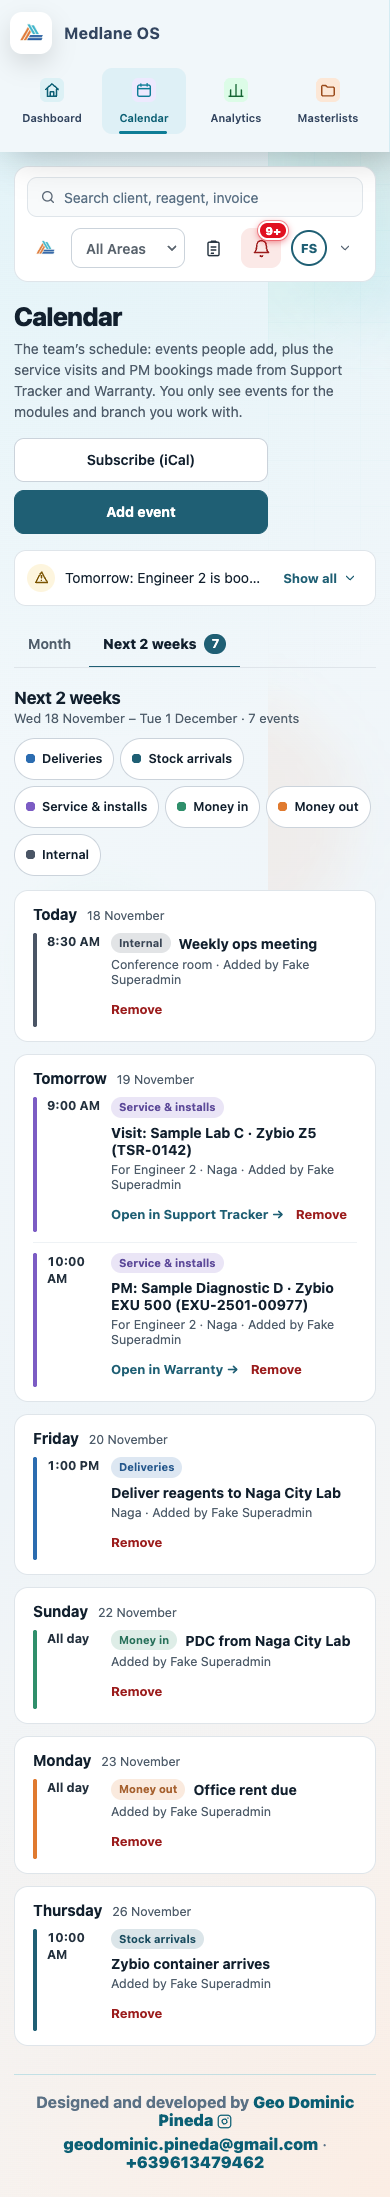
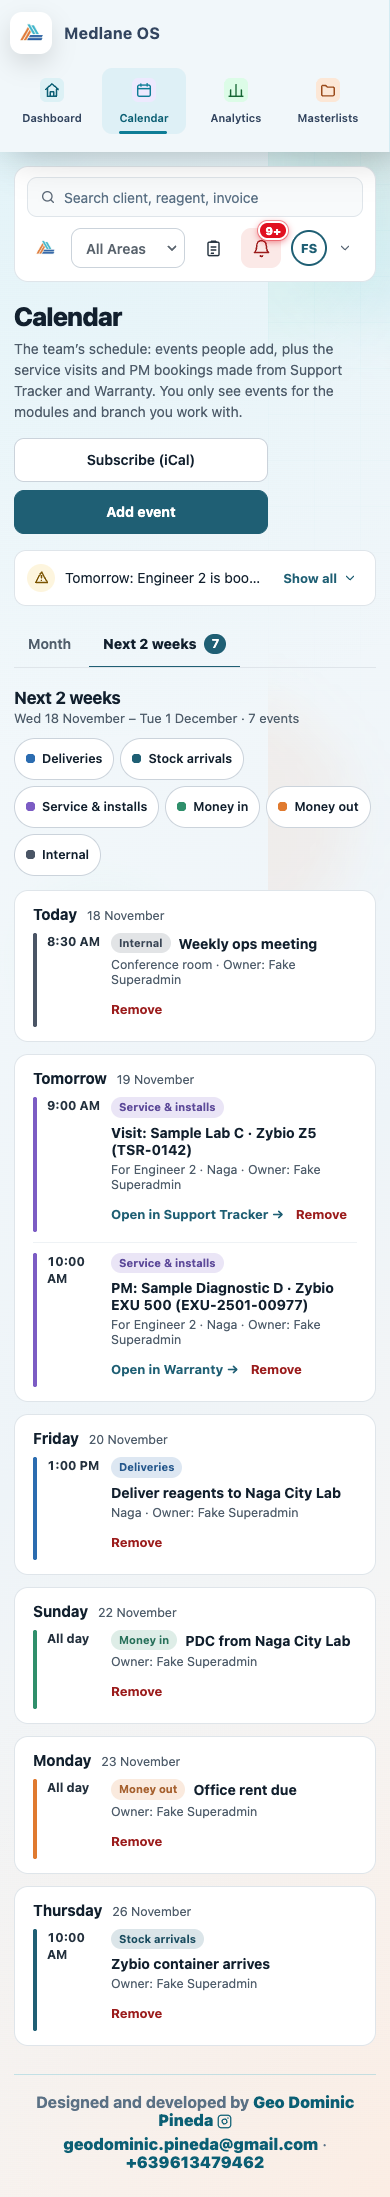
Calendar: the owner is always whoever made the event
- Add event shows you as the owner (read-only) instead of an Owner picker.
- The server stamps a new event's owner (email, name, role) from the signed-in profile, even for
  Superadmin/CEO, and an event keeps its owner for good when edited or removed.
- Events show "Owner: name" on the page, in the remove confirmation and in the iCal feed.
  Visits and PMs still show who they're for (the engineer).

diff --git a/public/scripts/calendar-page.js b/public/scripts/calendar-page.js
@@ -67,7 +67,7 @@ function calendarEventHtml(event) {
   const type = CalendarRules.typeInfo(CalendarRules.typeOf(event));
   const e = /** @type {any} */ (event);
   const when = e.allDay || !event.time ? "All day" : calendarTimeLabel(event.time);
-  const detail = [e.note, e.assigneeName ? `For ${e.assigneeName}` : "", e.branch ? supportBranchLabel(String(e.branch)) : "", event.createdBy ? `Added by ${event.createdBy}` : ""].filter(Boolean).map((s) => escapeHtml(String(s))).join(" · ");
+  const detail = [e.note, e.assigneeName ? `For ${e.assigneeName}` : "", e.branch ? supportBranchLabel(String(e.branch)) : "", event.createdBy ? `Owner: ${event.createdBy}` : ""].filter(Boolean).map((s) => escapeHtml(String(s))).join(" · ");
   const remove = canChangeCalendarEvent(event) ? `<button type="button" class="ui-link cal-remove" data-cal-remove="${escapeHtml(event.id)}" aria-label="Remove ${escapeHtml(event.title)}">Remove</button>` : "";
   return `<li class="cal-event">${calendarBar(type.color)}<div class="cal-event-time">${escapeHtml(when)}</div><div class="cal-event-body">
     <div class="cal-event-head"><span class="cal-type" style="--cal-color:${type.color}">${escapeHtml(type.label)}</span><strong>${escapeHtml(event.title)}</strong></div>
@@ -153,17 +153,10 @@ WORKFLOW_RULES.calendar = [
 ];
 
 // ----- adding and removing ------------------------------------------------------------------------------
-/** People an event can be for: the users list if this person can see it, else just themselves. */
-function calendarOwners() {
-  const me = { email: String(currentUser?.email || "").toLowerCase(), name: String(currentUser?.name || currentUser?.email || "Me") };
-  const users = (/** @type {any[]} */ (data.users || [])).filter((u) => u?.email && !u.disabled && u.status !== "Disabled").map((u) => ({ email: String(u.email).toLowerCase(), name: String(u.name || u.full_name || u.email) }));
-  return [me, ...users.filter((u) => u.email !== me.email).sort((a, b) => a.name.localeCompare(b.name))];
-}
 /** @param {string} [date] */
 async function calendarAddEvent(date = "") {
   if (!calendarCanAdd()) return toast("Editing is disabled for the Calendar in User Settings.");
   const day = date && date >= fmtDate(today) ? date : fmtDate(today);
-  const owners = calendarOwners();
   const values = await supportDialog({
     kicker: "Calendar", title: "Add an event", confirm: "Add event",
     body: `<div class="wty-form">
@@ -171,24 +164,23 @@ async function calendarAddEvent(date = "") {
       <div class="field"><label for="sup-date">Date</label><input id="sup-date" name="date" type="date" required min="${fmtDate(today)}" value="${day}" /></div>
       <div class="field"><label for="sup-time">Time</label><input id="sup-time" name="time" type="time" value="09:00" /></div>
       ${supportSelectHtml("type", "Type", CalendarRules.TYPES.map((t) => ({ value: t.key, label: t.label })), "internal")}
-      ${supportSelectHtml("owner", "Owner", owners.map((o) => ({ value: o.email, label: o.name })), owners[0].email)}
+      <div class="field"><label for="sup-owner">Owner</label><input id="sup-owner" value="${escapeHtml(String(currentUser?.name || currentUser?.email || "You"))}" readonly aria-describedby="sup-owner-help" /></div>
       ${supportSelectHtml("branch", "Branch", [{ value: "", label: "Everyone (all branches)" }, ...platformBranches().map((b) => ({ value: b, label: supportBranchLabel(b) }))], "")}
       <label class="ios-check-row cal-allday"><input type="checkbox" name="allDay" value="yes" /><span></span><strong>All day</strong></label>
       <div class="field full"><label for="sup-note">Note</label><textarea id="sup-note" name="note" maxlength="2000" placeholder="Where, what to bring, who else is going…"></textarea></div>
-    </div><p class="field-help">A branch event is only shown to people at that branch. Money and delivery types are only shown to people with those modules.</p>`,
+    </div><p class="field-help" id="sup-owner-help">You'll be the owner: only you (or Superadmin/CEO) can remove it. A branch event is only shown to people at that branch. Money and delivery types are only shown to people with those modules.</p>`,
   });
   if (!values) return;
   const title = String(values.title || "").trim();
   const allDay = values.allDay === "yes";
   if (!title || !values.date || (!allDay && !values.time)) return toast("Add a name, a date and a time (or tick All day).");
   if (values.date < fmtDate(today)) return toast("Events can only be added for today or a future date.");
-  const owner = owners.find((o) => o.email === values.owner) || owners[0];
   /** @type {CalendarEvent & Record<string, any>} */
   const entry = {
     id: `EVT-${Date.now().toString(36)}-${Math.random().toString(36).slice(2, 6)}`, title, date: values.date, time: allDay ? "" : values.time,
     createdBy: currentUser?.name || currentUser?.email || "User", createdByUser: String(currentUser?.email || "").toLowerCase(), createdByRole: currentUser?.role || "", createdAt: new Date().toISOString(),
     type: CalendarRules.TYPE_KEYS.includes(values.type) ? values.type : "internal", ...(allDay ? { allDay: true } : {}), ...(values.branch ? { branch: values.branch } : {}),
-    ...(String(values.note || "").trim() ? { note: String(values.note).trim() } : {}), assigneeEmail: owner.email, assigneeName: owner.name,
+    ...(String(values.note || "").trim() ? { note: String(values.note).trim() } : {}),
   };
   data.calendarEvents.push(entry);
   const saveResult = await persistRecords({ calendarEvents: [entry] });
@@ -205,7 +197,7 @@ async function calendarRemoveEvent(id) {
   const entry = (data.calendarEvents || []).find((e) => e.id === id);
   if (!entry || entry.removed) return;
   if (!canChangeCalendarEvent(entry)) return toast("Only the person who added this event can remove it.");
-  const ok = await confirmDetailsModal({ eyebrow: "Calendar", title: `Remove "${entry.title}"?`, fields: [["Date", entry.date], ["Time", /** @type {any} */ (entry).allDay || !entry.time ? "All day" : calendarTimeLabel(entry.time)], ["Added by", entry.createdBy || "-"]], confirmLabel: "Remove event", danger: true });
+  const ok = await confirmDetailsModal({ eyebrow: "Calendar", title: `Remove "${entry.title}"?`, fields: [["Date", entry.date], ["Time", /** @type {any} */ (entry).allDay || !entry.time ? "All day" : calendarTimeLabel(entry.time)], ["Owner", entry.createdBy || "-"]], confirmLabel: "Remove event", danger: true });
   if (!ok) return;
   entry.removed = true;
   entry.removedBy = currentUser?.name || currentUser?.email || "User";

diff --git a/src/worker.js b/src/worker.js
@@ -2786,13 +2786,15 @@ async function assertCalendarEventChangesAllowed(env, stateKey, profile, rows) {
       if ((!prev || String(prev.date || "") !== String(next.date || "")) && String(next.date) < shortDate()) throw new Error("Calendar event can only be scheduled for today or a future date");
     }
     if (!prev) {
-      if (owner !== me && !isManagement) throw new Error("You can only add calendar events as yourself");
-      // The department color comes from the creator's real role, never from the client.
-      if (owner === me) next.createdByRole = profile?.role || "";
+      if (owner && owner !== me && !isManagement) throw new Error("You can only add calendar events as yourself");
+      // The owner is always whoever made it: stamped from the signed-in profile, never the browser.
+      next.createdByUser = me;
+      next.createdBy = String(profile?.name || profile?.email || next.createdBy || "");
+      next.createdByRole = profile?.role || "";
       continue;
     }
-    // An event keeps the department it was created under.
-    if (prev.createdByRole !== undefined) next.createdByRole = prev.createdByRole;
+    // An event keeps its owner for good, whoever edits or removes it later.
+    for (const field of ["createdByUser", "createdBy", "createdByRole"]) if (prev[field] !== undefined) next[field] = prev[field];
     const keys = ["title", "date", "time", "removed", "createdByUser"];
     const changed = keys.some((key) => String(prev[key] ?? "") !== String(next[key] ?? ""));
     if (changed && owner !== me && !isManagement) throw new Error("Only the person who added this calendar event can change or remove it");

diff --git a/public/scripts/calendar-rules.js b/public/scripts/calendar-rules.js
@@ -159,7 +159,7 @@ const CalendarRules = (() => {
         lines.push(`DTSTART:${start}`, `DTEND:${new Date(Date.parse(`${e.date}T${e.time}:00+08:00`) + 3600e3).toISOString().replace(/[-:]/g, "").replace(/\.\d{3}/, "")}`);
       }
       lines.push(`SUMMARY:${icsText(e.title)}`, `CATEGORIES:${icsText(type.label)}`);
-      const description = [e.note, e.assigneeName ? `For ${e.assigneeName}` : "", e.createdBy ? `Added by ${e.createdBy}` : ""].filter(Boolean).join("\n");
+      const description = [e.note, e.assigneeName ? `For ${e.assigneeName}` : "", e.createdBy ? `Owner: ${e.createdBy}` : ""].filter(Boolean).join("\n");
       if (description) lines.push(`DESCRIPTION:${icsText(description)}`);
       if (e.branch) lines.push(`LOCATION:${icsText(e.branch)}`);
       lines.push("END:VEVENT");
